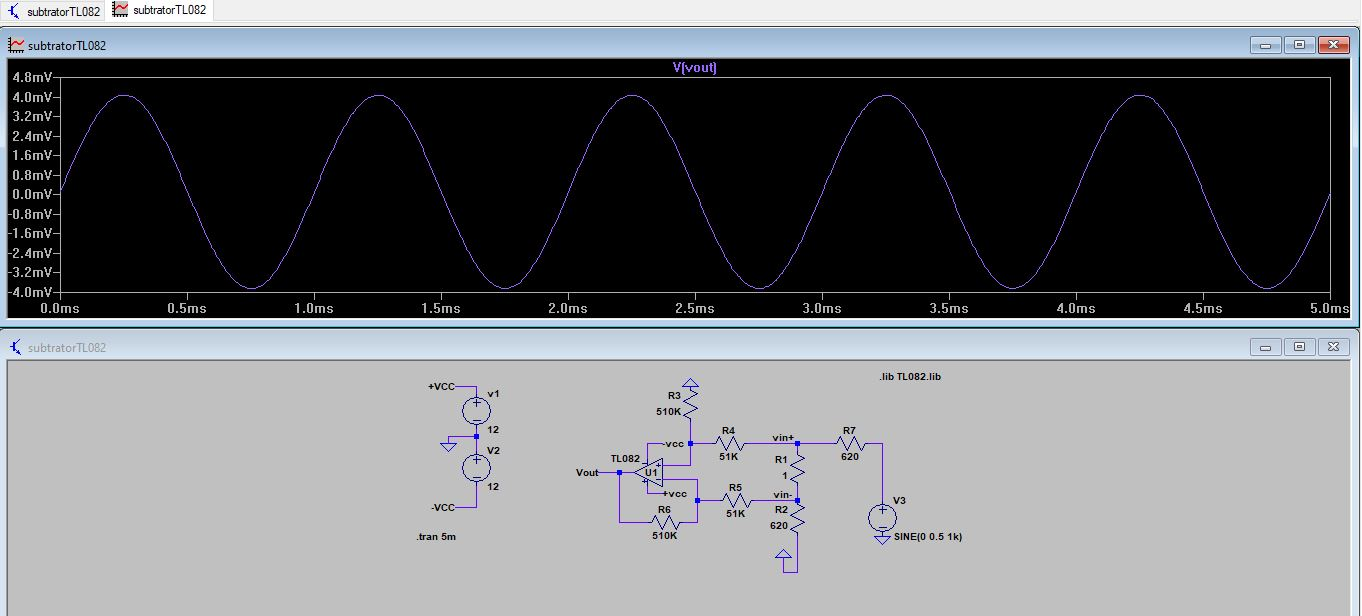
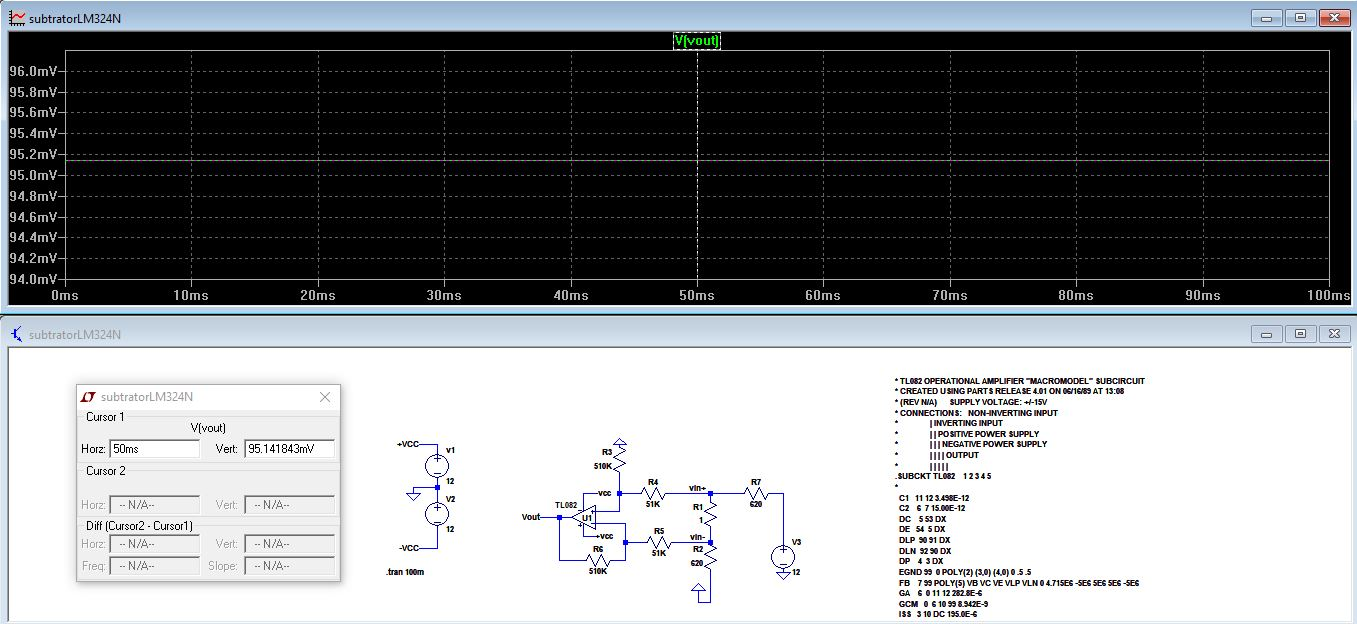
final

diff --git a/Relatório 1/projeto1.md b/Relatório 1/projeto1.md
@@ -130,37 +130,47 @@ use o resistor de realimentação com valor 510kΩ e ganho igual á 10V/V.
 Utilize a alimentação simétrica de +/-12V. (limite a corrente em 0,05A)
 
 
-## Análise teórica.
+Procedimento:
+1. Monte o circuito no LTSPICE.
+
+![subtratorTL082](/Imagens/parte1/modelo4_1.JPG)
+
+2. Compare os resultados para o LM324N e para TL082.
+
 
 ![Subtrator](/Imagens/parte1/subtrator.JPG)
 
-### AMPOP LM324N circuito e gráfico de Vin e Vout.
+### AMPOP LM324N circuito e gráfico de Vout.
 
-![InvesorLM324N](/Imagens/parte1/subtratorLM324N.JPG)
+![InvesorLM324N](/Imagens/parte1/subtratorLM324.JPG)
 
+De acordo com a  análise teórica o valor de tensão sobre o resistor de 1 ohm será de 96,6962 V, fazendo um divisor de tensão entre os resistores de 620 e 1 Ohm. desconsiderando a carga(ampop).
+Feito isso, se verificou que a tensão de saída sobre o LM324 ficou em aproximadamente 130mV, já o TL082 teve uma melhor aproximação de tensão do valor teórico ficando em 95,14mV.
 
-
-### AMPOP TL082 circuito e gráfico de Vin e Vout.
+### AMPOP TL082 circuito e gráfico de Vout.
 
 ![subtratorTL082](/Imagens/parte1/subtratorTL082.JPG)
 
-Procedimento:
-1. Monte o circuito no LTSPICE.
-2. Compare os resultados para o LM324N e para TL082.
-3. Caso a fonte V1 tenha o valor igual á 0(zero)V, qual o valor da tensão de saída, para ambos os circuitos? Explique.
-4. Caso o seja alterado para o circuito abaixo, existe alguma variação na saída? Explique.
-5. Justifique as dissimilaridades encontradas utilizando os dados do datasheet.
 
+3. Caso a fonte V1 tenha o valor igual á 0(zero)V, qual o valor da tensão de saída, para ambos os circuitos? Explique.
 
 ### V1 igual a zero LM324N.
 
+![subtratorTL082](/Imagens/parte1/LMZEROVOLTS.JPG)
 
 ### V1 igual a zero TL082.
 
+![subtratorTL082](/Imagens/parte1/subtratortensaozero.JPG)
+
+
+4. Caso o seja alterado para o circuito abaixo, existe alguma variação na saída? Explique.
+
+![subtratorTL082](/Imagens/parte1/modelo4_2.JPG)
 
 
 ### Alteração do circuito com LM324N.
-![InvesorLM324N](/Imagens/parte1/subtrator2LM324N.JPG)
+
+![InvesorLM324N](/Imagens/parte1/subtrator2LM324.JPG)
 
 
 ### Alteração do circuito com TL082.
@@ -168,8 +178,13 @@ Procedimento:
 ![subtratorTL082](/Imagens/parte1/subtrator2TL082.JPG)
 
 
+Após a comparação entre os gráficos pode-se observar que há uma pequena melhora nos valores de tesão de saída se aproximando mais ao valor de 96,6962V esperado e mais uma vez o TL082 se mostrou fiel ao resultado teórico com 96,80V Vout.
+
+5. Justifique as dissimilaridades encontradas utilizando os dados do datasheet.
 
 
 ## Conclusão.
 
-XXXXXXXXXXXXXXXXXXXXXXXXXXXXXXXXXXXXXXXXXXXXXXXXXXXXXXXXXXXXXXXXXXXXXXXX
+O amplificador subtrator é um excelente modelo quando se quer buscar um parâmetro de referência de tensão, pois uma pequena diferença de tensão pode ser multiplicada pelo ganho podendo ser usada para outras finalidades.
+Quando se fala nos amplificadores testados pode-se verificar que há diferença entre eles tendo o LM324N alcançado valores mais discrepantes quando comparados ao valor teórico.
+Já o TL082 teve valores muito próximos ao desejado.

diff --git a/Projeto Final/projeto_fonte.md b/Projeto Final/projeto_fonte.md
@@ -1,0 +1,24 @@
+##### Instituto Federal de Santa Catarina - Campus Florianópolis Departamento Acadêmico de Eletrônica Curso de Engenharia Eletrônica
+
+Alunos:
+
+*Luís André G. da Silva
+
+
+# Objetivos
+Integração dos blocos de uma fonte linear.
+
+## Introdução
+Neste roteiro iremos integrar os circuitos estudados anteriormente, para isso, revise os conceitos
+de reguladores LDO e tenha em mãos os roteiros anteriores.
+
+### Parte 01
+
+Considerando o circuito da figura 01 que representa uma fonte linear com regulador MOSFET, temos o seguinte problema:
+
+1- Qual relação entre a tensão de alimentação do ampop e a tensão de saída?
+
+
+2- O que devemos considerar para esse circuito operar como um LDO? Como obter as tensões de alimentação para o AmpOp (VCC e VEE)?
+
+![primeiro bloco](/Imagens/parte5/retificadoreampop.JPG)
